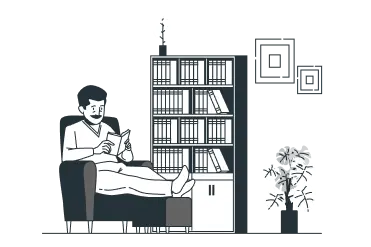
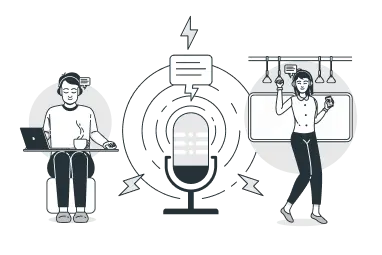
секція skills

diff --git a/index.html b/index.html
@@ -69,48 +69,57 @@
                 <h2 class="skills-title title" id="skills">Skills</h2>
                 <ul class="skills-list">
                     <li class="skills-item">
-                        <img src="./img/skills1.webp" alt="photo1">
-                        <h3 class="skills-subtitle">Speaking</h3>
-                        <p class="skills-text text">
-                            Improve your English skills and confidence.
-                            Live classes and interactive lessons online.
-                            20% extra free for a limited time only
-
-                            Learn English online and improve your
-                            skills through our high-quality courses
-                            and resources – all designed for adult language learners.
-                        </p>
-                        <a class="skills-more" href="">Learn more</a>
+                        <img class="skills-photo1" src="./img/skills1.webp" alt="photo1">
+                        <h3 class="skills-subtitle subtitle1">Speaking</h3>
+                        <ul class="skills-sublist">
+                            <li class="skills-subitem">
+                                <p class="skills-text text text1">
+                                    Improve your English skills and confidence.
+                                    Live classes and interactive lessons online.
+                                    20% extra free for a limited time only
+                                </p>
+                            </li>
+                            <li class="skills-subitem">
+                                <p class="skills-text text text1">
+                                    Learn English online and improve your
+                                    skills through our high-quality courses
+                                    and resources – all designed for adult language learners.
+                                </p>
+                            </li>
+                        </ul>
+                        <a class="skills-more important1" href="">Learn more</a>
                     </li>
                     <li class="skills-item">
-                        <img src="./img/skills2.webp" alt="photo2">
-                        <h3 class="skills-subtitle"> Writing</h3>
-                        <p class="skills-text text">
+                        <img class="skills-photo2" src="./img/skills2.webp" alt="photo2">
+                        <h3 class="skills-subtitle subtitle2"> Writing</h3>
+                        <p class="skills-text text text2">
                             One of the most important and extensive
                             areas of natural science, the science that
                             studies substances, also their composition
                         </p>
-                        <a class="skills-more" href="">Learn more</a>
+                        <a class="skills-more important2" href="">Learn more</a>
                     </li>
                     <li class="skills-item">
-                        <img src="./img/skills3.webp" alt="photo3">
-                        <h3 class="skills-subtitle">Listening</h3>
-                        <p class="skills-text text">
-                            Here you can find activities to practise
-                            your listening skills. Listening will help you
-                            to improve your understanding
-                        </p>
-                        <a class="skills-more" href="">Learn more</a>
-                    </li>
-                    <li class="skills-item">
-                        <img src="./img/skills4.webp" alt="photo4">
-                        <h3 class="skills-subtitle">Reading</h3>
-                        <p class="skills-text text">
+                        <img class="skills-photo3" src="./img/skills3.webp" alt="photo3">
+                        <h3 class="skills-subtitle subtitle3">Reading</h3>
+                        <p class="skills-text text text3">
                             perception and response actions of the user
                             resulting from the use and/or upcoming use
                             of the product, system or service
                         </p>
-                        <a class="skills-more" href="">Learn more</a>
+                        <a class="skills-more important3" href="">Learn more</a>
+                    </li>
+                    <li class="skills-item">
+                        <div class="skills-box">
+                            <h3 class="skills-subtitle subtitle4">Listening</h3>
+                            <p class="skills-text text text4">
+                                Here you can find activities to practise
+                                your listening skills. Listening will help you
+                                to improve your understanding
+                            </p>
+                            <a class="skills-more important4" href="">Learn more</a>
+                        </div>
+                        <img class="skills-photo4" src="./img/skills4.webp" alt="photo4">
                     </li>
                 </ul>
             </div>

diff --git a/style.css b/style.css
@@ -90,6 +90,10 @@ body {
 }
 
 /* секція hero */
+.hero {
+    padding: 51px 0px 51px;
+}
+
 .hero-container {
     display: flex;
 }
@@ -133,6 +137,69 @@ body {
 
 /* секція skills */
 
+.skills {
+    padding: 51px 0px 141px;
+}
+
+.skills-title {
+    text-align: center;
+    padding-bottom: 96px;
+}
+
+.skills-list {
+    display: grid;
+    grid-template-columns: repeat(3, 1fr);
+    gap: 18px;
+}
+
+.skills-sublist {
+    display: flex;
+    flex-direction: column;
+    gap: 29px;
+
+        margin: 0px 45px 36px 43px;
+}
+
+.skills-item {
+    background-color: #F5F5F5;
+    border-radius: 10px;
+}
+
+.skills-photo1 {
+    width: 390px;
+    margin: 0px auto;
+}
+
+.skills-photo2 {
+    width: 293px;
+    margin-left: auto;
+}
+
+.skills-photo3 {
+    width: 371px;
+}
+
+.skills-photo4 {
+    width: 382px;
+}
+
+.skills-item:nth-child(1) {
+    grid-row: 1/3;
+    padding: 35px 0px 92px;
+}
+
+.skills-item:nth-child(2) {
+    padding-bottom: 44px;
+}
+
+.skills-item:nth-child(4) {
+    display: flex;
+    grid-column: 2/4;
+    padding: 44px 0px;
+}
+
+
+
 .skills-subtitle {
     font-weight: 600;
     font-size: 30px;
@@ -140,8 +207,47 @@ body {
     color: var(--subtitle-color);
 }
 
+.subtitle1 {
+    margin: 87px 226px 5px 43px;
+
+}
+
+.subtitle2 {
+    margin: 0px 280px 0px 42px;
+
+}
+
+.subtitle3 {
+    margin: 47px 267px 0px 41px;
+
+}
+
+.subtitle4 {
+    margin: 0px 293px 0px 48px;
+
+}
+
 .skills-text {
     font-size: 16px;
+}
+
+.text1 {
+    max-width: 347px;
+}
+
+.text2 {
+    max-width: 344px;
+    margin: 0px 49px 33px 41px;
+}
+
+.text3 {
+    max-width: 363px;
+    margin: 0px 29px 35px 43px;
+}
+
+.text4 {
+    max-width: 328px;
+    margin: 0px 102px 25px 48px;
 }
 
 .skills-more {
@@ -149,16 +255,42 @@ body {
     font-size: 18px;
     color: var(--button-text-color);
 
-    border-radius: 5px;
-    width: 230px;
+    display: block;
+    width: 218px;
     height: 60px;
+    text-align: center;
+    padding: 15px 0px;
+    border-radius: 5px;
     background: var(--button-color);
 }
+
+.important1 {
+    display: block;
+    width: 230px;
+    height: 60px;
+    text-align: center;
+    padding: 17px 0px 16px;
+    margin: 0px 162px 0px 43px;
+}
+
+.important2 {
+   margin: 0px 174px 0px 41px;
+}
+
+.important3 {
+   margin: 0px 174px 0px 43px;
+}
+
+.important4 {
+    margin: 0px 216px 0px 44px;
+}
+
+
 
 /* секція about */
 
 .about {
-    padding: 0px 0px 94px;
+    padding: 141px 0px 94px;
 }
 
 .about-subtitle {
@@ -292,6 +424,11 @@ body {
 
 .contact-text {
     margin-bottom: 52px;
+}
+
+.contact-form {
+    display: flex;
+    gap: 12px;
 }
 
 .contact-input {
